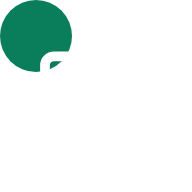
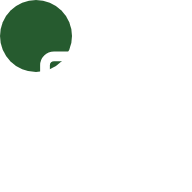
Itération 2 : climat RT2012 par département, charte Savelys, données confirmées
- Climat : 8 sous-zones RT2012 (H1a..H3) avec DJU/tExtBase, mapping complet des 96
  départements métropolitains (table PacCloser), zoneCoarse() pour la grille CEE
  (zones grossières H1/H2/H3).
- Charte Savelys : vert confirmé #265B2F (remplace le placeholder #0a7d5a) dans le
  CSS, l'icône PWA (SVG + PNG régénérés), le manifest et le theme-color ; bandeau de
  confiance mis à jour (N°1 de l'entretien / 50 ans / 3 000 techniciens).
- Barème ANAH : commentaire documentaire mis à jour (barème officiel confirmé au
  1er janvier 2026, hors_idf couvre aussi l'Outre-mer) ; seul le CEE Savelys et les
  tarifs énergie restent à valider.
- Lead : commentaire de envoyerLead() réoriente la cible d'intégration vers
  Salesforce Web-to-Lead (envoi toujours simulé en attendant l'oid/endpoint).
- Tests mis à jour pour la nouvelle API climat (getZone("H1a"), zones postales par
  sous-zone, zoneCoarse) ; node --test : 15/15 au vert.

Claude-Session: https://claude.ai/code/session_01XsMF6kLDVeqvcusNJHcbpc

Changed region(s): [[0.0, 0.0, 0.375, 0.375], [0.25, 0.3125, 0.3125, 0.375]]

diff --git a/styles/main.css b/styles/main.css
@@ -1,11 +1,11 @@
 /* =============================================================================
    Simulateur PAC Savelys — design system (clair, aéré, rassurant).
-   ⚠ TOKENS À REMPLACER par les vrais hex/police Savelys (extraction depuis
-   savelys.fr — cf. cahier §4). Valeurs ci-dessous = placeholders plausibles.
+   Vert Savelys confirmé depuis savelys.fr (#265B2F). Police : fallback Inter
+   (extraction de la police exacte du site non disponible).
    ============================================================================= */
 :root {
-  --sav-primary: #0a7d5a;        /* CTA principal (placeholder vert Savelys) */
-  --sav-primary-dark: #075f45;   /* hover / actif */
+  --sav-primary: #265B2F;        /* CTA principal (vert Savelys confirmé) */
+  --sav-primary-dark: #1c4423;   /* hover / actif */
   --sav-accent: #0f6fb3;         /* accent secondaire (placeholder bleu) */
   --sav-bg: #f4f7f6;             /* fond de page, clair et aéré */
   --sav-surface: #ffffff;        /* cartes */
@@ -96,7 +96,7 @@ input[type="text"], input[type="number"], input[type="email"], input[type="tel"]
   background: var(--sav-surface); border: 1.5px solid var(--sav-border);
   border-radius: var(--radius-sm); outline: none;
 }
-input:focus, select:focus { border-color: var(--sav-primary); box-shadow: 0 0 0 3px rgba(10, 125, 90, .15); }
+input:focus, select:focus { border-color: var(--sav-primary); box-shadow: 0 0 0 3px rgba(38, 91, 47, .15); }
 .hint { display: block; color: var(--sav-muted); font-size: .8rem; margin-top: .35rem; }
 
 input[type="range"] { width: 100%; accent-color: var(--sav-primary); height: 1.6rem; }
@@ -110,7 +110,7 @@ input[type="range"] { width: 100%; accent-color: var(--sav-primary); height: 1.6
 }
 .segmented input { accent-color: var(--sav-primary); }
 .segmented label:has(input:checked) {
-  border-color: var(--sav-primary); background: rgba(10, 125, 90, .06); font-weight: 600;
+  border-color: var(--sav-primary); background: rgba(38, 91, 47, .06); font-weight: 600;
 }
 
 /* --- Boutons --- */
@@ -136,7 +136,7 @@ input[type="range"] { width: 100%; accent-color: var(--sav-primary); height: 1.6
 .stat__value { display: block; font-size: 1.5rem; font-weight: 800; margin-top: .15rem; }
 .stat__unit { font-size: .9rem; font-weight: 600; color: var(--sav-muted); }
 .stat__hint { display: block; color: var(--sav-muted); font-size: .75rem; margin-top: .1rem; }
-.stat--accent { border-color: var(--sav-primary); background: rgba(10, 125, 90, .06); }
+.stat--accent { border-color: var(--sav-primary); background: rgba(38, 91, 47, .06); }
 .stat--success .stat__value { color: var(--sav-success); }
 
 .breakdown { list-style: none; padding: 0; margin: .6rem 0 .2rem; }
@@ -161,7 +161,7 @@ input[type="range"] { width: 100%; accent-color: var(--sav-primary); height: 1.6
 /* --- Lead / gate --- */
 .teaser { background: rgba(15, 111, 179, .06); border: 1px solid var(--sav-border); border-radius: var(--radius-sm); padding: 1rem; margin-bottom: 1rem; }
 .teaser__blur { margin-top: .5rem; font-weight: 800; color: transparent; text-shadow: 0 0 12px rgba(0,0,0,.45); user-select: none; }
-.lead__hook { background: rgba(10,125,90,.06); padding: .7rem .9rem; border-radius: var(--radius-sm); margin: 0 0 1rem; }
+.lead__hook { background: rgba(38, 91, 47, .06); padding: .7rem .9rem; border-radius: var(--radius-sm); margin: 0 0 1rem; }
 .consent { display: flex; gap: .6rem; align-items: flex-start; font-size: .88rem; margin: .4rem 0 1rem; }
 .consent input { margin-top: .2rem; accent-color: var(--sav-primary); }
 .lead__legal { text-align: center; }

diff --git a/js/data/postal-zones.js b/js/data/postal-zones.js
@@ -1,26 +1,37 @@
 /**
- * Correspondance code postal → zone climatique (H1 / H2 / H3).
+ * Correspondance code postal → sous-zone climatique RT2012 (H1a…H3).
  *
- * On mappe par département (2 premiers chiffres du code postal). La Corse (20x)
- * est traitée à part. Tout département non listé en H2/H3 retombe en H1.
- *
- * ⚠ Zonage PROVISOIRE et simplifié (3 zones). À réaligner sur la table exacte
- * du Toshiba V17 (source de vérité) — cf. cahier §2.
+ * Mapping des 96 départements métropolitains fourni par PacCloser (valeurs "plaine").
+ * La Corse (codes postaux 20xxx) est traitée à part → H3.
+ * Département absent → null (le calcul retombe sur CLIMAT_DEFAUT).
  */
 
-// Littoral méditerranéen — zone la plus douce.
-const DEPTS_H3 = new Set(["06", "11", "13", "30", "34", "66", "83"]);
-
-// Façade atlantique + Sud-Ouest (dont Dordogne 24 et Lot-et-Garonne 47, cf. cahier).
-const DEPTS_H2 = new Set([
-  "14", "16", "17", "22", "24", "27", "29", "33", "35", "40",
-  "44", "47", "50", "53", "56", "61", "64", "72", "76", "79",
-  "85", "86",
-]);
+export const DEPT_TO_ZONE = {
+  "01": "H1c", "02": "H1a", "03": "H1c", "04": "H2d", "05": "H1c",
+  "06": "H3", "07": "H2d", "08": "H1b", "09": "H2c", "10": "H1b",
+  "11": "H3", "12": "H2c", "13": "H3", "14": "H2a", "15": "H1c",
+  "16": "H2b", "17": "H2b", "18": "H2b", "19": "H1c",
+  "2A": "H3", "2B": "H3",
+  "21": "H1b", "22": "H2a", "23": "H1c", "24": "H2c", "25": "H1b",
+  "26": "H2d", "27": "H1a", "28": "H1a", "29": "H2a", "30": "H3",
+  "31": "H2c", "32": "H2c", "33": "H2c", "34": "H3", "35": "H2a",
+  "36": "H2b", "37": "H2b", "38": "H1c", "39": "H1b", "40": "H2c",
+  "41": "H2b", "42": "H1c", "43": "H1c", "44": "H2b", "45": "H2b",
+  "46": "H2c", "47": "H2c", "48": "H1c", "49": "H2b", "50": "H2a",
+  "51": "H1a", "52": "H1b", "53": "H2b", "54": "H1b", "55": "H1b",
+  "56": "H2a", "57": "H1b", "58": "H1b", "59": "H1a", "60": "H1a",
+  "61": "H1a", "62": "H1a", "63": "H1c", "64": "H2c", "65": "H2c",
+  "66": "H3", "67": "H1b", "68": "H1b", "69": "H1c", "70": "H1b",
+  "71": "H1c", "72": "H2b", "73": "H1c", "74": "H1c", "75": "H1a",
+  "76": "H1a", "77": "H1a", "78": "H1a", "79": "H2b", "80": "H1a",
+  "81": "H2c", "82": "H2c", "83": "H3", "84": "H2d", "85": "H2b",
+  "86": "H2b", "87": "H1c", "88": "H1b", "89": "H1b", "90": "H1b",
+  "91": "H1a", "92": "H1a", "93": "H1a", "94": "H1a", "95": "H1a",
+};
 
 /**
  * @param {string} codePostal - code postal français (5 chiffres, ex. "24000").
- * @returns {"H1"|"H2"|"H3"|null} code de zone, ou null si code postal invalide.
+ * @returns {string|null} sous-zone RT2012 (ex. "H2c"), ou null si invalide/inconnu.
  */
 export function getZoneFromPostal(codePostal) {
   const cp = String(codePostal || "").trim();
@@ -29,8 +40,5 @@ export function getZoneFromPostal(codePostal) {
   // Corse (2A / 2B) : codes postaux 20xxx → climat méditerranéen.
   if (cp.startsWith("20")) return "H3";
 
-  const dept = cp.slice(0, 2);
-  if (DEPTS_H3.has(dept)) return "H3";
-  if (DEPTS_H2.has(dept)) return "H2";
-  return "H1";
+  return DEPT_TO_ZONE[cp.slice(0, 2)] || null;
 }

diff --git a/js/data/climate.js b/js/data/climate.js
@@ -1,30 +1,20 @@
 /**
- * Zones climatiques françaises — DJU (base 18) et température extérieure de base.
+ * Zones climatiques françaises (sous-zones RT2012) — DJU (base 18) et température
+ * extérieure de base, d'après la table de dimensionnement PacCloser.
  *
- * Valeurs représentatives alignées sur la table PacCloser (sous-zones RT2012) :
- *   H1 ≈ H1a (−7 / 2580) · H2 ≈ H2b (−5 / 2200) · H3 (−3 / 1480).
- * Défaut PacCloser si zone inconnue : tbase −5 °C, DJU 2000.
- *
- * ℹ Le mapping fin des 96 départements → sous-zone RT2012 (H1a…H3) est disponible
- *    côté PacCloser et pourra être intégré pour affiner (cf. échange).
+ * Valeurs "plaine" — à majorer en altitude (déperdition plus élevée).
+ * Défaut si département inconnu : tbase −5 °C, DJU 2000.
  */
 
 export const ZONES_CLIMATIQUES = {
-  H1: {
-    libelle: "H1 — Nord / Est / montagne",
-    dju: 2580, // base 18 (représentatif H1a)
-    tExtBase: -7, // °C
-  },
-  H2: {
-    libelle: "H2 — Ouest / Sud-Ouest",
-    dju: 2200, // représentatif H2b
-    tExtBase: -5,
-  },
-  H3: {
-    libelle: "H3 — littoral méditerranéen",
-    dju: 1480,
-    tExtBase: -3,
-  },
+  H1a: { libelle: "H1a", dju: 2580, tExtBase: -7 },
+  H1b: { libelle: "H1b", dju: 2730, tExtBase: -10 },
+  H1c: { libelle: "H1c", dju: 2570, tExtBase: -8 },
+  H2a: { libelle: "H2a", dju: 2180, tExtBase: -4 },
+  H2b: { libelle: "H2b", dju: 2200, tExtBase: -5 },
+  H2c: { libelle: "H2c", dju: 2000, tExtBase: -5 },
+  H2d: { libelle: "H2d", dju: 2080, tExtBase: -6 },
+  H3: { libelle: "H3", dju: 1480, tExtBase: -3 },
 };
 
 /** Valeurs climatiques par défaut (PacCloser) si aucune zone n'est résolue. */
@@ -32,4 +22,16 @@ export const CLIMAT_DEFAUT = { libelle: "Climat par défaut", dju: 2000, tExtBas
 
 export function getZone(codeZone) {
   return ZONES_CLIMATIQUES[codeZone] || null;
+}
+
+/**
+ * Zone climatique "grossière" (H1 / H2 / H3) à partir d'une sous-zone RT2012.
+ * Utilisée par la grille CEE Savelys, qui raisonne en 3 zones.
+ */
+export function zoneCoarse(subzone) {
+  const s = String(subzone || "");
+  if (s.startsWith("H1")) return "H1";
+  if (s.startsWith("H2")) return "H2";
+  if (s.startsWith("H3")) return "H3";
+  return null;
 }

diff --git a/js/ui/lead.js b/js/ui/lead.js
@@ -5,7 +5,8 @@
  * saisie des coordonnées + consentement explicite. Anonyme avant ce point.
  *
  * Version MVP : l'envoi est SIMULÉ (log console + confirmation). Un seul point
- * d'accroche `envoyerLead()` à rebrancher plus tard (Formspree / Netlify Forms / CRM).
+ * d'accroche `envoyerLead()` à rebrancher plus tard vers la cible d'intégration
+ * retenue : Salesforce Web-to-Lead (CRM agence Savelys).
  */
 
 export function renderLeadForm(state) {
@@ -119,7 +120,14 @@ export function buildLeadPayload(state, results) {
 
 /**
  * "Envoi" du lead — SIMULÉ pour le MVP.
- * Point unique à rebrancher plus tard vers Formspree / Netlify Forms / CRM.
+ *
+ * Cible d'intégration retenue : Salesforce Web-to-Lead. À terme, ce point remplacera
+ * le log console par un POST HTML classique (form-urlencoded) vers
+ * `https://webto.salesforce.com/servlet/servlet.WebToLead?encoding=UTF-8`, avec
+ * l'`oid` de l'org Salesforce Savelys + les champs du lead mappés aux champs
+ * standard/custom du formulaire Web-to-Lead (nom, prénom, e-mail/téléphone, code
+ * postal, et les données techniques de `buildLeadPayload` en champs custom).
+ * Reste à brancher dès que l'`oid`/endpoint Salesforce sera fourni par Savelys.
  */
 export async function envoyerLead(payload) {
   // eslint-disable-next-line no-console

diff --git a/js/data/aides-baremes.js b/js/data/aides-baremes.js
@@ -1,12 +1,12 @@
 /**
- * Barèmes des aides — Simulateur PAC Savelys (repères 2026).
+ * Barèmes des aides — Simulateur PAC Savelys.
  *
- * ⚠ ANTI-HALLUCINATION : ces barèmes sont susceptibles d'évoluer. Ils doivent être
- * VÉRIFIÉS sur les sources officielles avant mise en production :
- *   - Seuils RFR ANAH : https://france-renov.gouv.fr/bareme
- *   - CEE / Coup de pouce : barème réel du partenaire obligé Savelys.
- * Table RFR ci-dessous = barème publié 2026 (cohérent avec l'ancre du cahier :
- * Bleu / 2 pers / hors-IDF = 25 393 €).
+ * Seuils RFR ANAH : barème officiel ANAH au 1er janvier 2026 (vérifié conforme à la
+ * brochure officielle « Les aides financières en 2026 », p.8). La table `hors_idf`
+ * s'applique aussi à l'Outre-mer.
+ *
+ * ⚠ À VALIDER avant mise en production : le barème CEE / Coup de pouce (partenaire
+ * obligé Savelys) et les tarifs énergie (`constants.js`), qui restent des repères.
  */
 
 export const BAREME_DATE = "2026";

diff --git a/index.html b/index.html
@@ -5,7 +5,7 @@
   <meta name="viewport" content="width=device-width, initial-scale=1, viewport-fit=cover" />
   <title>Simulateur Pompe à Chaleur — Savelys</title>
   <meta name="description" content="Estimez en 2 minutes le passage à une pompe à chaleur air/eau : puissance, budget, aides (MaPrimeRénov', CEE) et amortissement. Estimation gratuite et sans engagement — Savelys." />
-  <meta name="theme-color" content="#0a7d5a" />
+  <meta name="theme-color" content="#265B2F" />
   <link rel="manifest" href="./manifest.webmanifest" />
   <link rel="icon" href="./icons/icon.svg" type="image/svg+xml" />
   <link rel="apple-touch-icon" href="./icons/icon-192.png" />
@@ -26,7 +26,7 @@
   </main>
 
   <section class="trustbar" aria-label="Repères de confiance Savelys">
-    <div><strong>150</strong> agences</div>
+    <div><strong>N°1</strong> de l'entretien</div>
     <div><strong>50 ans</strong> d'expertise</div>
     <div><strong>3 000</strong> techniciens</div>
   </section>

diff --git a/js/app.js b/js/app.js
@@ -5,7 +5,7 @@
  */
 
 import { rendementChaudiere, PCI_FIOUL, T_INT, E_ECS_UTILE } from "./constants.js";
-import { getZone, CLIMAT_DEFAUT } from "./data/climate.js";
+import { getZone, CLIMAT_DEFAUT, zoneCoarse } from "./data/climate.js";
 import { getZoneFromPostal } from "./data/postal-zones.js";
 import { calculerDeperditions } from "./engines/deperditions.js";
 import { dimensionnerPAC } from "./engines/dimensionnement.js";
@@ -89,7 +89,7 @@ function compute() {
     region: state.aides.region,
     energieActuelle: state.chauffage.energie,
     prixCentral: prix.prixCentral,
-    zone: zoneCode,
+    zone: zoneCoarse(zoneCode), // grille CEE en zones grossières H1/H2/H3
     surface: state.logement.surface,
   });
 

diff --git a/README.md b/README.md
@@ -59,18 +59,24 @@ de consentement explicite. L'envoi est **simulé** pour l'instant (log console +
 lead complet) — un seul point à rebrancher : `envoyerLead()` dans `js/ui/lead.js`
 (Formspree / Netlify Forms / CRM).
 
+## Données confirmées (itération 2)
+
+- **Seuils RFR ANAH** (`js/data/aides-baremes.js`) : barème officiel ANAH au
+  1er janvier 2026 (brochure officielle « Les aides financières en 2026 »),
+  IDF + hors-IDF (la table `hors_idf` couvre aussi l'Outre-mer).
+- **Zones climatiques / DJU** (`js/data/climate.js`, `js/data/postal-zones.js`) :
+  8 sous-zones RT2012 (H1a…H3) et mapping complet des 96 départements
+  métropolitains, d'après la table de dimensionnement PacCloser.
+- **Design system** (`styles/main.css`) : vert Savelys confirmé `#265B2F`
+  (source : savelys.fr).
+
 ## ⚠ Données à valider avant mise en production
 
-Ces valeurs sont des repères datés (juillet 2026) à confirmer officiellement :
-
-- **Seuils RFR ANAH** (`js/data/aides-baremes.js`) : à recouper avec
-  `france-renov.gouv.fr/bareme`.
 - **Constantes énergie** (`js/constants.js`, `MAJ_TARIFS`) : prix gaz/fioul/élec.
-- **Zones climatiques / DJU** (`js/data/climate.js`) : valeurs représentatives
-  alignées PacCloser ; le mapping fin des 96 départements → sous-zone RT2012 (H1a…H3)
-  reste à intégrer.
-- **Design system** (`styles/main.css`) : les tokens `--sav-*` sont des **placeholders**
-  — à remplacer par les vrais hex + police Savelys (extraction depuis savelys.fr).
+- **Barème CEE / Coup de pouce** (`js/data/aides-baremes.js`) : barème réel du
+  partenaire obligé Savelys.
+- **Cible d'intégration du lead** (`js/ui/lead.js`) : Salesforce Web-to-Lead,
+  à brancher quand l'`oid`/endpoint de l'org sera fourni.
 
 ## Points ouverts
 
